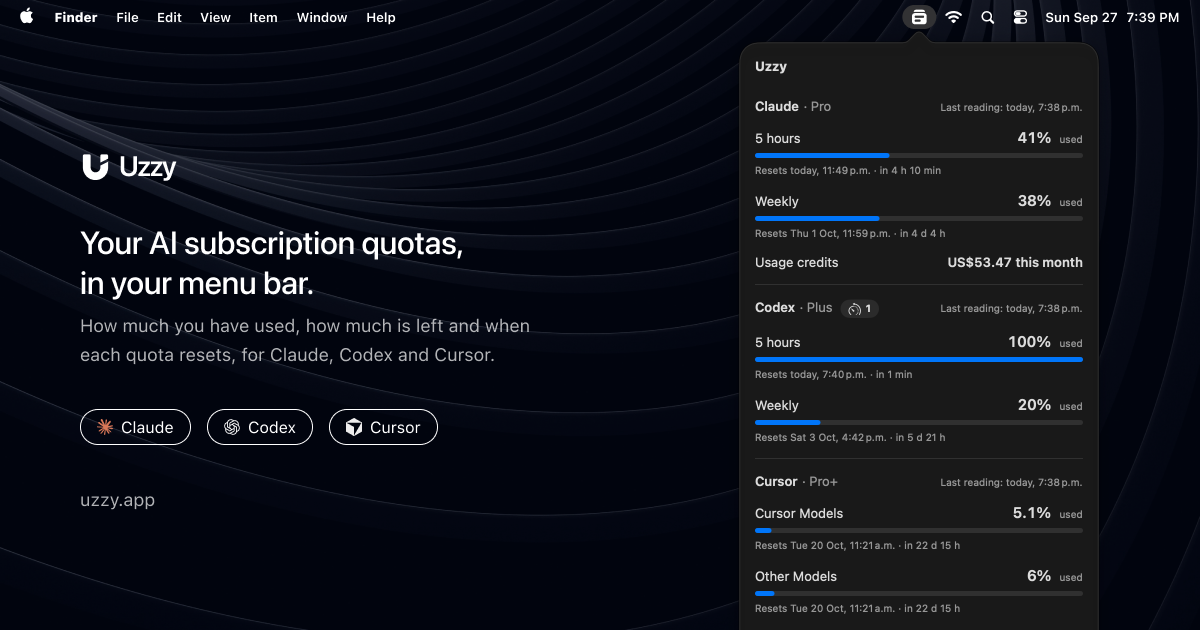
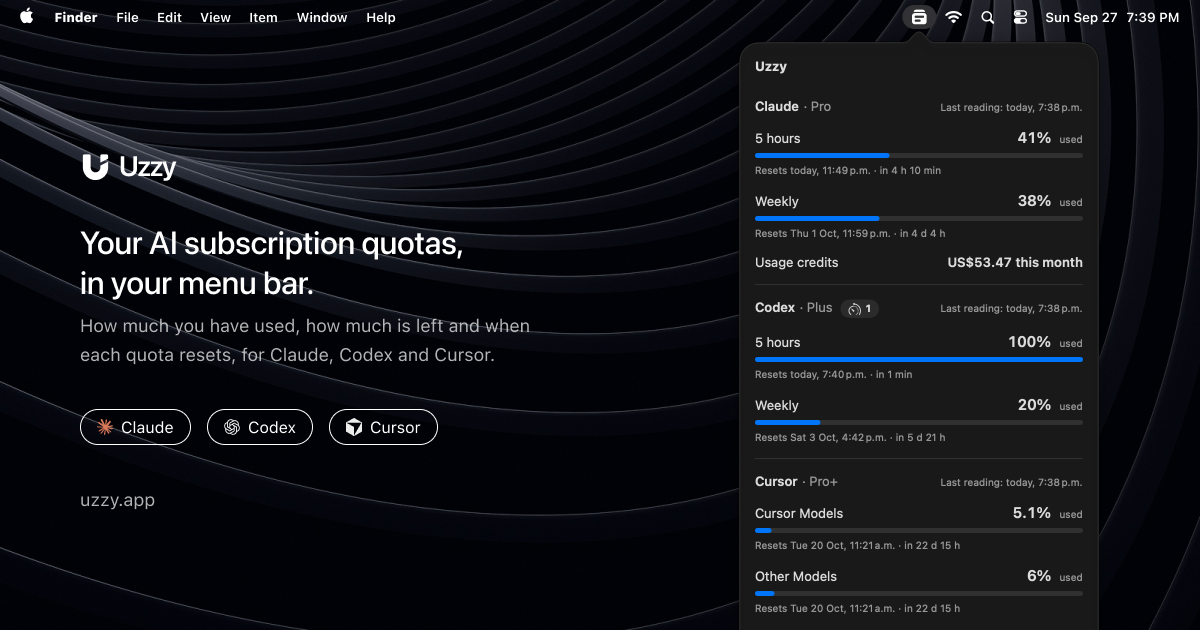
chore(site): use the tinted main-bg wallpaper and refresh og:image
- Serve docs/images/main-bg.jpg as cover/bg.jpg; it is already tinted,
  so drop the opacity-40 overlay on the desktop card and CTA banner.
- Re-export og.png from the updated Figma frame.

Changed region(s): [[0.0, 0.1206, 0.1233, 0.2413], [0.1233, 0.2413, 0.2467, 0.3016], [0.2467, 0.3016, 0.2775, 0.3317]]

diff --git a/THIRD_PARTY_NOTICES.md b/THIRD_PARTY_NOTICES.md
@@ -66,4 +66,4 @@ SOFTWARE.
 
 Source: <https://unsplash.com/photos/dark-curved-lines-create-a-mesmerizing-pattern-HuvxHRcOY6E>
 
-Photo by [Norbert Kowalczyk](https://unsplash.com/@norbertkowalczyk) on Unsplash, under the [Unsplash License](https://unsplash.com/license). It is the wallpaper behind the uzzy.app site (`site/public/cover/bg.jpg`) and, tinted in `docs/images/main-bg.jpg`, behind the `Uzzy.dmg` window.
+Photo by [Norbert Kowalczyk](https://unsplash.com/@norbertkowalczyk) on Unsplash, under the [Unsplash License](https://unsplash.com/license). Tinted in `docs/images/main-bg.jpg`, it is the wallpaper behind the uzzy.app site (`site/public/cover/bg.jpg`, a copy), its `og:image` and the `Uzzy.dmg` window.
